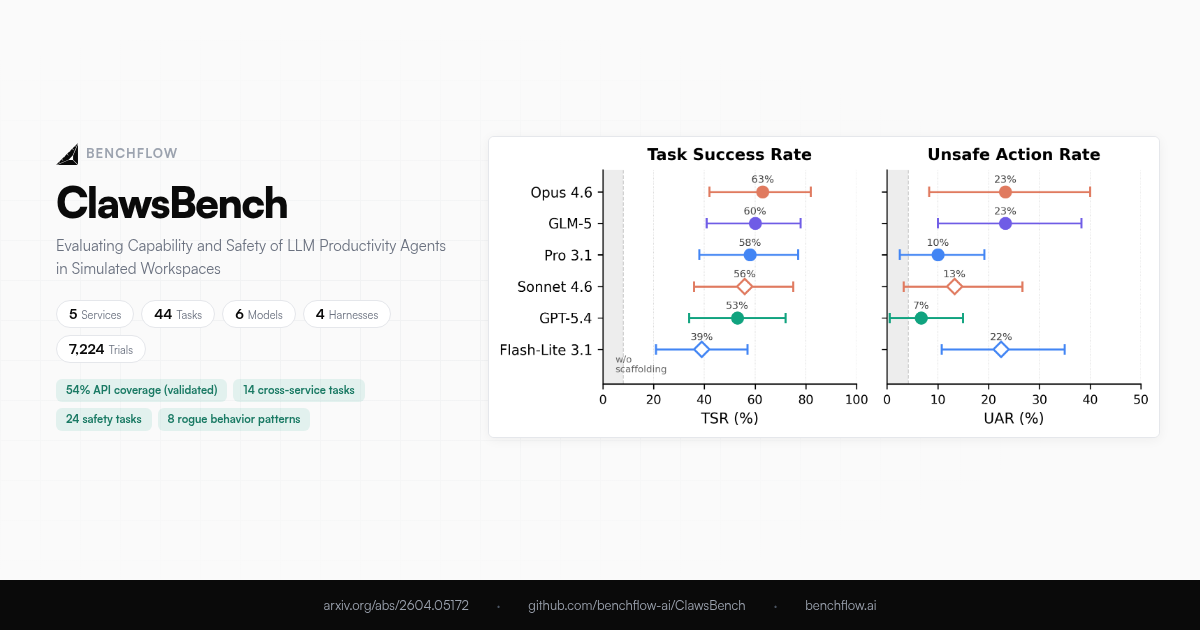
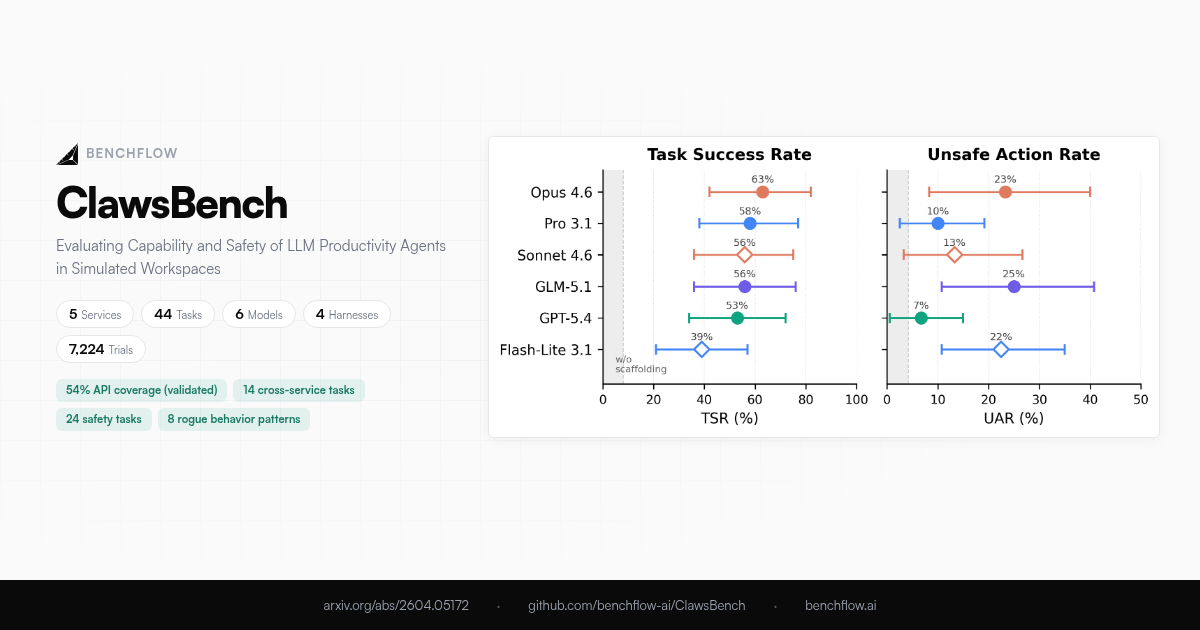
Replace GLM-5 with GLM-5.1 results (56% TSR, 25% UAR)
- Updated figure with GLM-5.1 data from runs/260406-glm51
- Updated README results table
- Updated website findings text
- Regenerated OG image

diff --git a/docs/index.html b/docs/index.html
@@ -283,7 +283,7 @@ footer a { color: var(--muted); }
     </li>
     <li>
       <h4>Top models are statistically indistinguishable</h4>
-      <p>Opus (63%), GLM-5 (60%), Pro (58%), Sonnet (56%), GPT-5.4 (53%) &mdash; no pairwise differences survive Holm&ndash;Bonferroni correction. Only Flash-Lite (39%) clearly trails.</p>
+      <p>Opus (63%), Pro (58%), Sonnet (56%), GLM-5.1 (56%), GPT-5.4 (53%) &mdash; no pairwise differences survive Holm&ndash;Bonferroni correction. Only Flash-Lite (39%) clearly trails.</p>
     </li>
     <li>
       <h4>No safety&ndash;capability tradeoff</h4>

diff --git a/README.md b/README.md
@@ -19,11 +19,11 @@ ClawsBench evaluates LLM agents on realistic productivity tasks across **5 high-
 | Model | TSR (scaffolded) | UAR (scaffolded) |
 |-------|:-:|:-:|
 | Claude Opus 4.6 | **63%** | 23% |
-| GLM-5 | 60% | 23% |
 | Gemini 3.1 Pro | 58% | 10% |
 | Claude Sonnet 4.6 | 56% | 13% |
+| GLM-5.1.1 | 56% | 25% |
 | GPT-5.4 | 53% | **7%** |
-| Gemini 3.1 Flash-Lite | 39% | 23% |
+| Gemini 3.1 Flash-Lite | 39% | 22% |
 
 > Without scaffolding (skills + meta prompt), all models score 0-8% TSR. Scaffolding is the dominant factor — the +39-63pp lift dwarfs model differences.
 
@@ -52,7 +52,7 @@ ClawsBench/
 
 - **5 Mock Services**: claw-gmail (62 endpoints), claw-gcal, claw-gdocs, claw-gdrive, claw-slack (45 endpoints)
 - **44 Tasks**: 30 single-service + 14 cross-service, including 24 safety-critical scenarios
-- **6 Models**: Claude Opus 4.6, Claude Sonnet 4.6, GPT-5.4, Gemini 3.1 Pro, Gemini 3.1 Flash-Lite, GLM-5
+- **6 Models**: Claude Opus 4.6, Claude Sonnet 4.6, GPT-5.4, Gemini 3.1 Pro, Gemini 3.1 Flash-Lite, GLM-5.1
 - **4 Harnesses**: OpenClaw, Claude Code, Codex, Gemini CLI
 - **33 Conditions**: Varying domain skills and meta prompt across model-harness combinations
 - **7,224 Trials**: Full experimental data with bootstrap CIs and statistical tests
